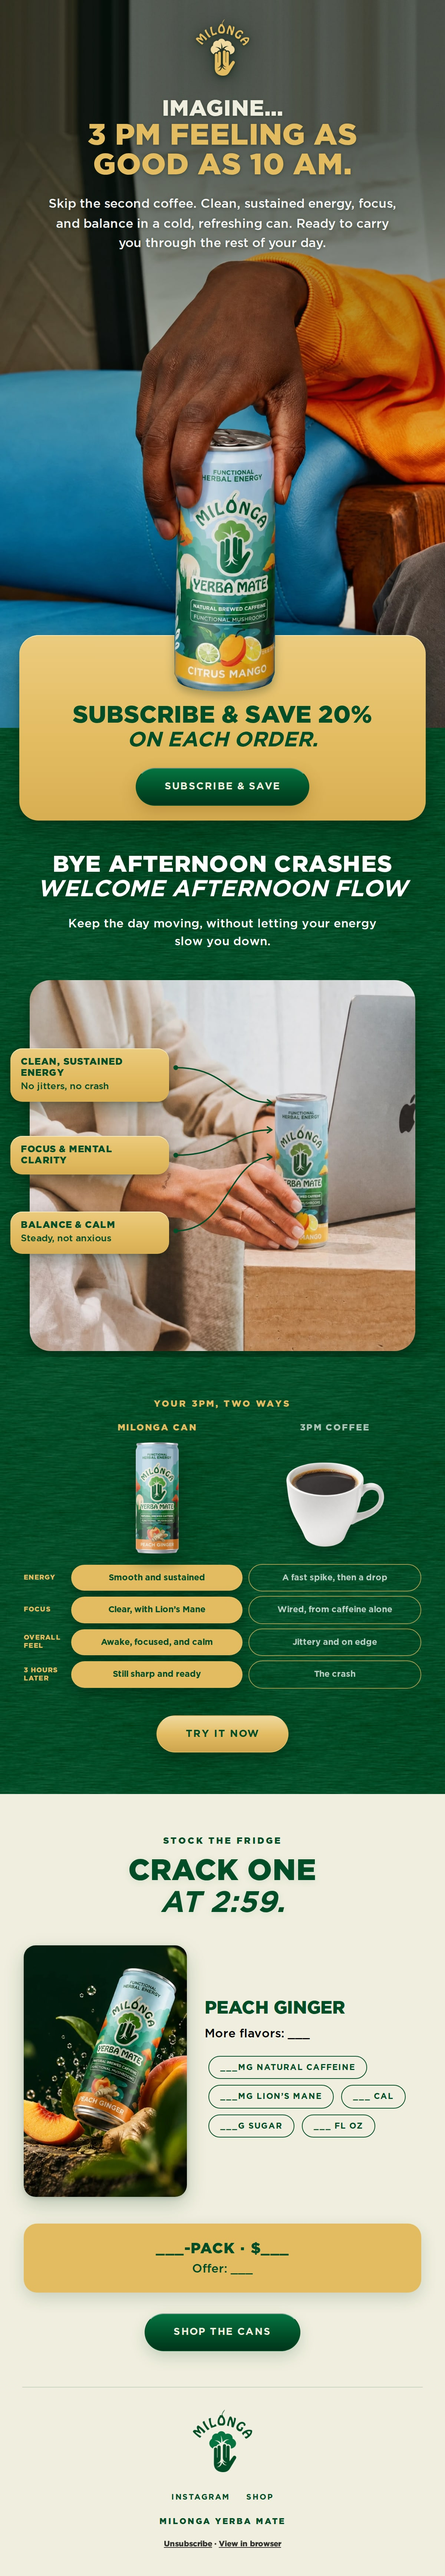
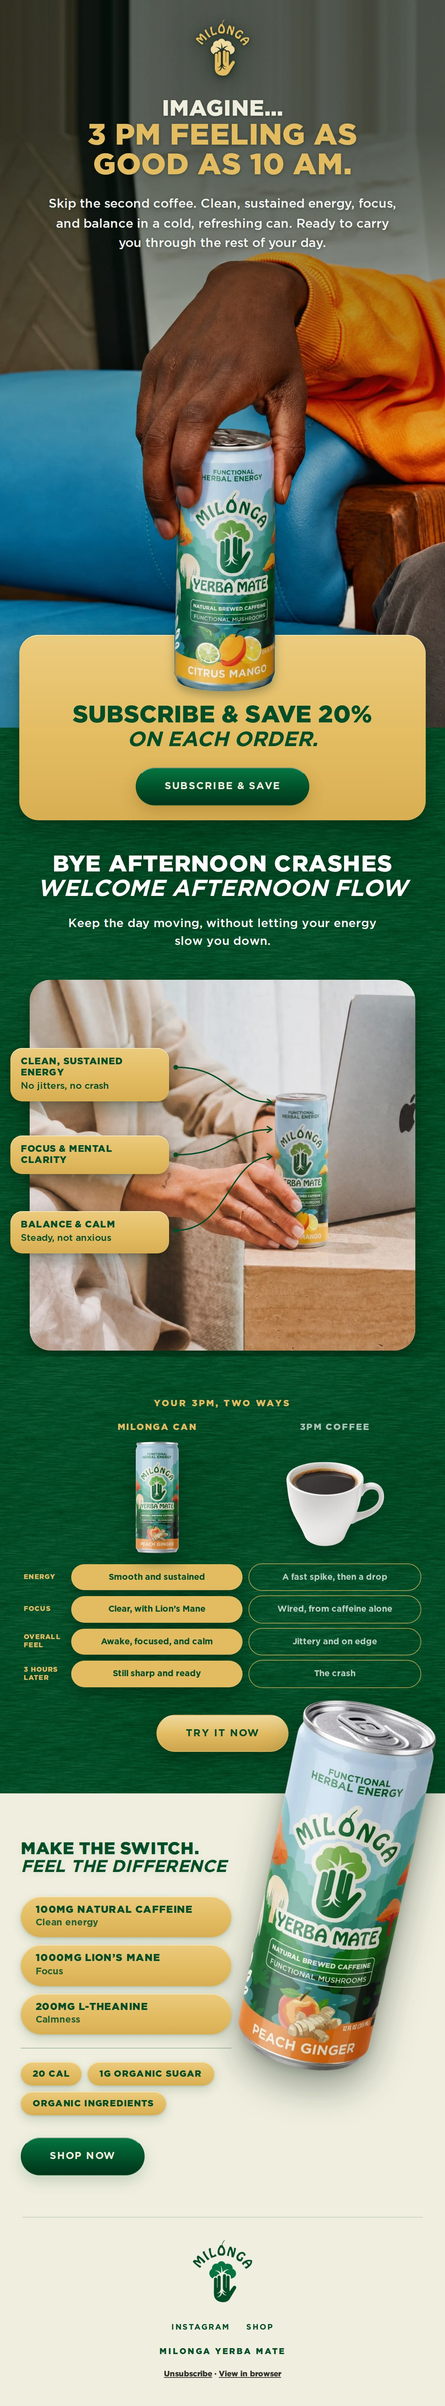
email: the close — tilted can breaking into the comparison, formula pills
Make the switch. / Feel the difference, the functional three as gold
pills with what each is for, then 20 cal, 1g organic sugar and organic
ingredients, and Shop now. The tilted Peach Ginger can stands on the
right with its top crossing up into the forest. Every ___ placeholder
is gone now the can specs are in; drops the two family-composite crops.

Claude-Session: https://claude.ai/code/session_01NhEtXPnfeCJfN73SqBkUZ5

diff --git a/email-ds/emails/three-pm-cans.jsx b/email-ds/emails/three-pm-cans.jsx
@@ -3,15 +3,10 @@
 // Subject: Your 3PM Without The Crash ☀🧊
 // Preview: Brewed yerba mate and Lion's Mane, cold and ready by 2:59.
 //
-// FIRST LAYOUT, BUILT AHEAD OF THE FACTS. The product file covers the Mate
-// Latte bag only, so every number this email needs for the cans — caffeine,
-// Lion's Mane dose, calories, sugar, can size, price, pack, flavours — is a
-// visible "___" rather than a plausible figure. Fill them from the can's own
-// label before this goes anywhere near a send.
-//
-// THE ONLY CAN ART IN THE REPO is the Peach Ginger can inside the product
-// family composite, so both photographs here are crops of that one file.
-// They hold the layout; real can photography replaces them.
+// CAN SPECS, as Bernat supplied them for this email (the product file covers
+// the Mate Latte bag only): 100mg natural caffeine, 1000mg Lion's Mane,
+// 200mg L-Theanine, 20 cal, 1g organic sugar, organic ingredients, 12 fl oz.
+// The 20% subscription offer is his too.
 const M = window.MilongaEmailDS;
 const h = React.createElement;
 
@@ -20,9 +15,16 @@ const GOLD = '#E3BC62';
 const BEIGE = '#F0EFDF';
 const FONT = 'Gotham, Montserrat, sans-serif';
 
-// A blank waiting for a real figure. Kept as a constant so a search for it
-// finds every hole in the email at once.
-const TBD = '___';
+// The close's gold pills: the face of a gold button, without the link.
+const PILL = {
+  background: 'linear-gradient(180deg, #EBCB7E 0%, #E3BC62 55%, #D8AE52 100%)',
+  boxShadow: '0 6px 14px rgba(0,53,27,0.16), 0 1px 3px rgba(0,53,27,0.14), inset 0 1px 0 rgba(255,246,214,0.7)',
+};
+const FORMULA = [
+  ['100mg natural caffeine', 'Clean energy'],
+  ['1000mg Lion’s Mane', 'Focus'],
+  ['200mg L-Theanine', 'Calmness'],
+];
 
 // Section 1 geometry: photo pixels → design units, and the subscribe card.
 const CAN = 600 / 1493;
@@ -266,55 +268,49 @@ function ThreePmCans() {
     ),
 
     // ── 3 · THE CLOSE ─────────────────────────────────────────────────────
-    // Beige, dark green type only. The can on the left as an inset photograph
-    // (rounded, because it is a photo with its own backdrop rather than a
-    // cutout), the facts on the right, then the offer and one button.
-    h('div', { style: { padding: '56px 32px 48px' } },
-      h('div', { style: { textAlign: 'center' } },
-        h('div', { style: { fontFamily: FONT, fontWeight: 900, fontSize: 12,
-          letterSpacing: '0.2em', textTransform: 'uppercase', color: FOREST,
-          marginBottom: 14 } }, 'Stock the fridge'),
-        h(M.Headline, { line1: 'Crack one', line2: 'at 2:59.', bg: 'beige',
-          size: 40, align: 'center', italic: true }),
-      ),
+    // Beige, dark green type. Title, the formula as gold pills and the button
+    // down the left; one big tilted can on the right whose top breaks up
+    // through the edge into the forest above. That crossing is the 3D moment
+    // of the email — the can stands in front of the page rather than on it.
+    //
+    // The section paints above the comparison (zIndex 1) so the can's top
+    // covers the forest, and clips only its SIDES and foot: an unclipped
+    // cutout running past the right edge widens the whole export.
+    h('div', { style: { position: 'relative', zIndex: 1, padding: '64px 28px 56px',
+      clipPath: 'inset(-400px 0 0 0)' } },
+      h('img', { src: '../public/product/can-peach-ginger-tilt.png',
+        alt: 'A can of Milonga Yerba Mate, Peach Ginger, 12 fl oz, tilted.',
+        style: { position: 'absolute', right: 12, top: -126, height: 500, width: 'auto',
+          display: 'block', filter: 'drop-shadow(0 22px 26px rgba(0,26,13,0.34)) drop-shadow(0 4px 6px rgba(0,26,13,0.2))' } }),
 
-      h('div', { style: { display: 'flex', gap: 24, alignItems: 'center', marginTop: 36 } },
-        h('div', { style: { flex: '0 0 220px', width: 220, borderRadius: 16, overflow: 'hidden',
-          boxShadow: '0 10px 26px rgba(0,53,27,0.22), 0 2px 6px rgba(0,53,27,0.14)' } },
-          h('img', { src: '../public/product/can-peach-ginger-close.jpg',
-            alt: 'A can of Milonga Yerba Mate in Peach Ginger beside a slice of peach and fresh ginger.',
-            style: { width: '100%', height: 'auto', display: 'block' } }),
+      h('div', { style: { width: 284, position: 'relative' } },
+        h(M.Headline, { line1: 'Make the switch.', line2: 'Feel the difference', bg: 'beige',
+          size: 23, align: 'left', italic: true }),
+
+        // The functional three, each a gold pill with its dose and what it is
+        // for. On beige gold is a fill and never type, so the type is forest.
+        h('div', { style: { marginTop: 26 } },
+          FORMULA.map(([dose, note], i) => h('div', { key: i, style: { ...PILL,
+            padding: '11px 20px', marginBottom: 10, borderRadius: 999 } },
+            h('div', { style: { fontFamily: FONT, fontWeight: 900, fontSize: 13.5,
+              letterSpacing: '0.05em', textTransform: 'uppercase', color: FOREST, lineHeight: 1.15 } }, dose),
+            h('div', { style: { fontFamily: FONT, fontWeight: 600, fontSize: 12.5,
+              color: FOREST, opacity: 0.82, marginTop: 2 } }, note),
+          )),
         ),
-        h('div', { style: { flex: 1 } },
-          h('div', { style: { fontFamily: FONT, fontWeight: 900, fontSize: 24,
-            textTransform: 'uppercase', color: FOREST, lineHeight: 1.05 } }, 'Peach Ginger'),
-          h('div', { style: { fontFamily: FONT, fontWeight: 500, fontSize: 16,
-            lineHeight: 1.45, color: '#000000', margin: '10px 0 18px' } },
-            `More flavors: ${TBD}`),
-          h(M.SpecPills, { bg: 'beige', align: 'left', size: 11, items: [
-            `${TBD}mg natural caffeine`,
-            `${TBD}mg Lion’s Mane`,
-            `${TBD} cal`,
-            `${TBD}g sugar`,
-            `${TBD} fl oz`,
-          ] }),
+
+        h('div', { style: { height: 1, background: 'rgba(0,77,39,0.32)', margin: '18px 0 18px' } }),
+
+        h('div', { style: { display: 'flex', flexWrap: 'wrap', gap: 8 } },
+          ['20 cal', '1g organic sugar', 'Organic ingredients'].map((t, i) => h('span', { key: i,
+            style: { ...PILL, display: 'inline-block', borderRadius: 999, padding: '9px 16px',
+              fontFamily: FONT, fontWeight: 900, fontSize: 12, letterSpacing: '0.07em',
+              textTransform: 'uppercase', color: FOREST } }, t)),
         ),
-      ),
 
-      // The offer as a gold cell with dark green type — on cream, gold is a
-      // fill and never type. Price and pack are blanks until confirmed.
-      h('div', { style: { marginTop: 36, background: GOLD, borderRadius: 18,
-        padding: '22px 24px', textAlign: 'center',
-        boxShadow: '0 8px 22px rgba(0,53,27,0.16)' } },
-        h('div', { style: { fontFamily: FONT, fontWeight: 900, fontSize: 20,
-          textTransform: 'uppercase', color: FOREST, letterSpacing: '0.04em' } },
-          `${TBD}-pack · $${TBD}`),
-        h('div', { style: { fontFamily: FONT, fontWeight: 500, fontSize: 16,
-          color: FOREST, marginTop: 6 } }, `Offer: ${TBD}`),
-      ),
-
-      h('div', { style: { marginTop: 28, textAlign: 'center' } },
-        h(M.Button, { label: 'Shop the cans', href: '#shop', bg: 'beige', size: 'lg' }),
+        h('div', { style: { marginTop: 30 } },
+          h(M.Button, { label: 'Shop now', href: '#shop', bg: 'beige', size: 'lg' }),
+        ),
       ),
     ),
 
